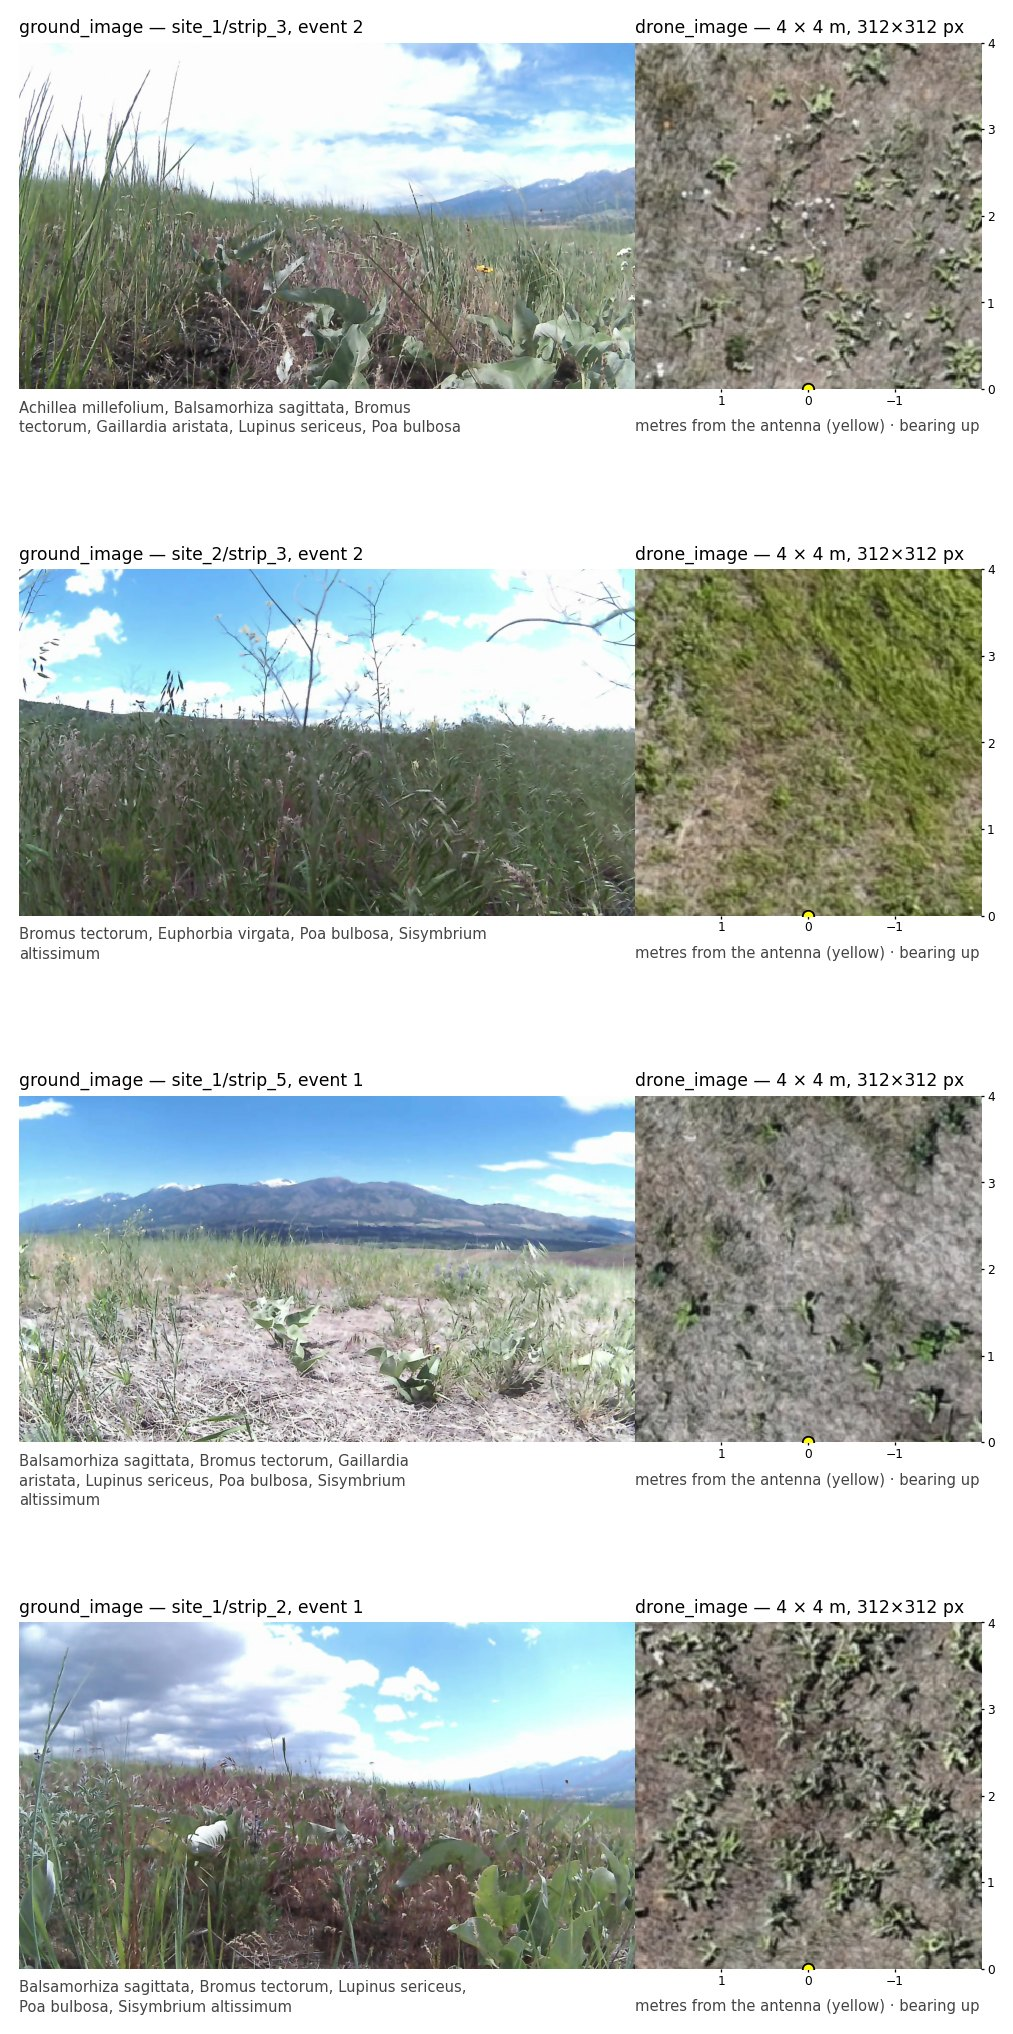
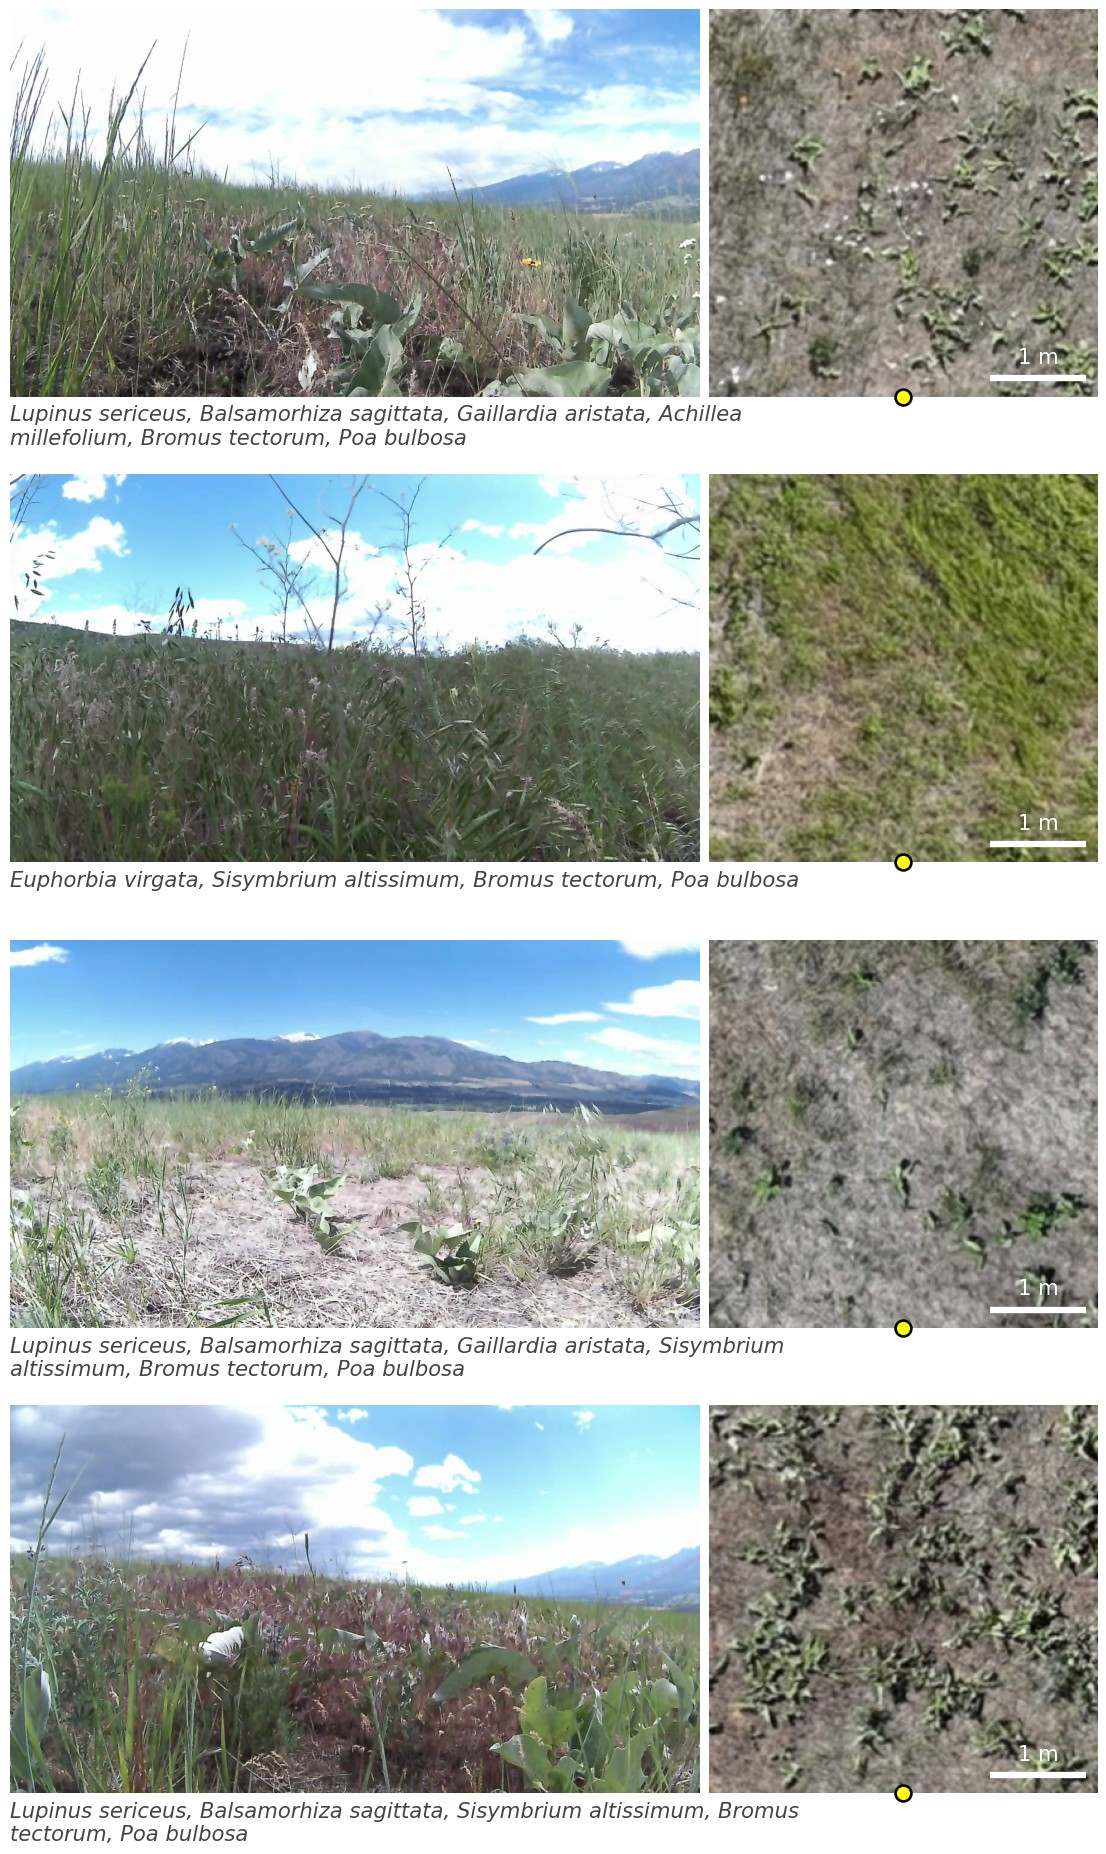
multimodal_dataset: card paired examples redrawn from the released drone images

diff --git a/multimodal_dataset/card/README.md b/multimodal_dataset/card/README.md
@@ -163,9 +163,10 @@ native raster.
 
 ## 2. Paired examples
 
-The left column shows the ground image. The right column shows the drone
-image for the same row, rotated so the robot's bearing points up, with the
-antenna at the bottom-edge midpoint (yellow).
+The left column shows the ground image, with the species present listed
+beneath it. The right column shows the drone image for the same row, rotated
+so the robot's bearing points up, with the antenna at the bottom-edge midpoint
+(yellow) and a white bar spanning 1 m.
 
 ![Ground images beside their paired nadir drone images](images/paired_examples.jpg)
 
